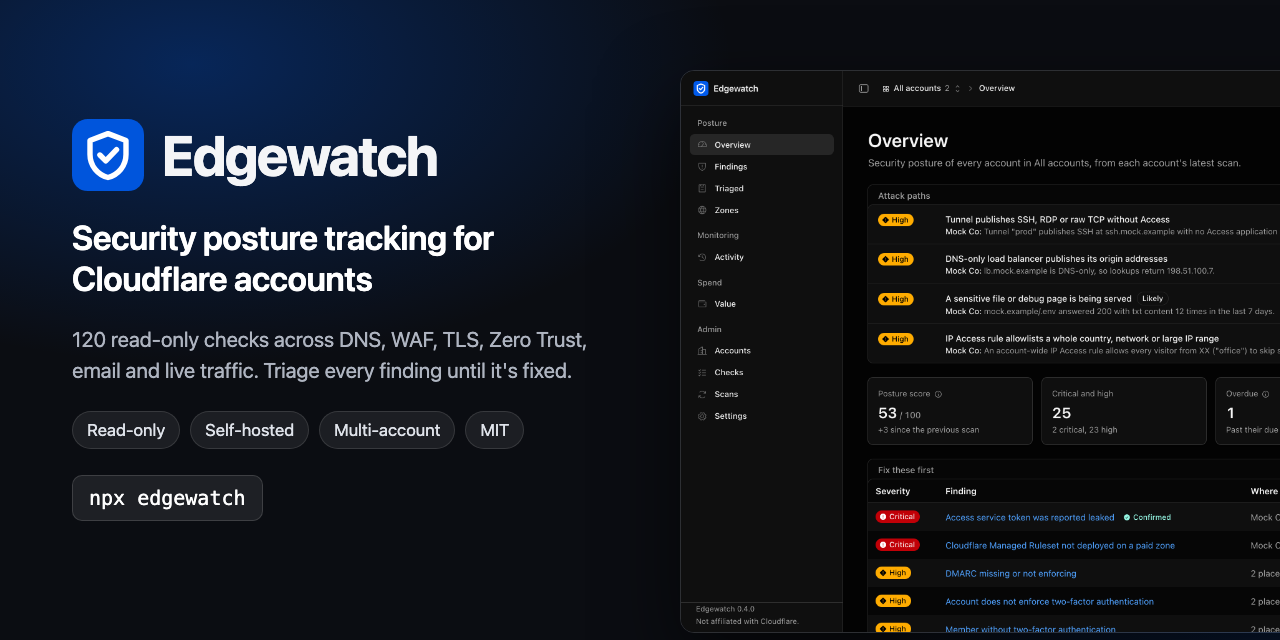
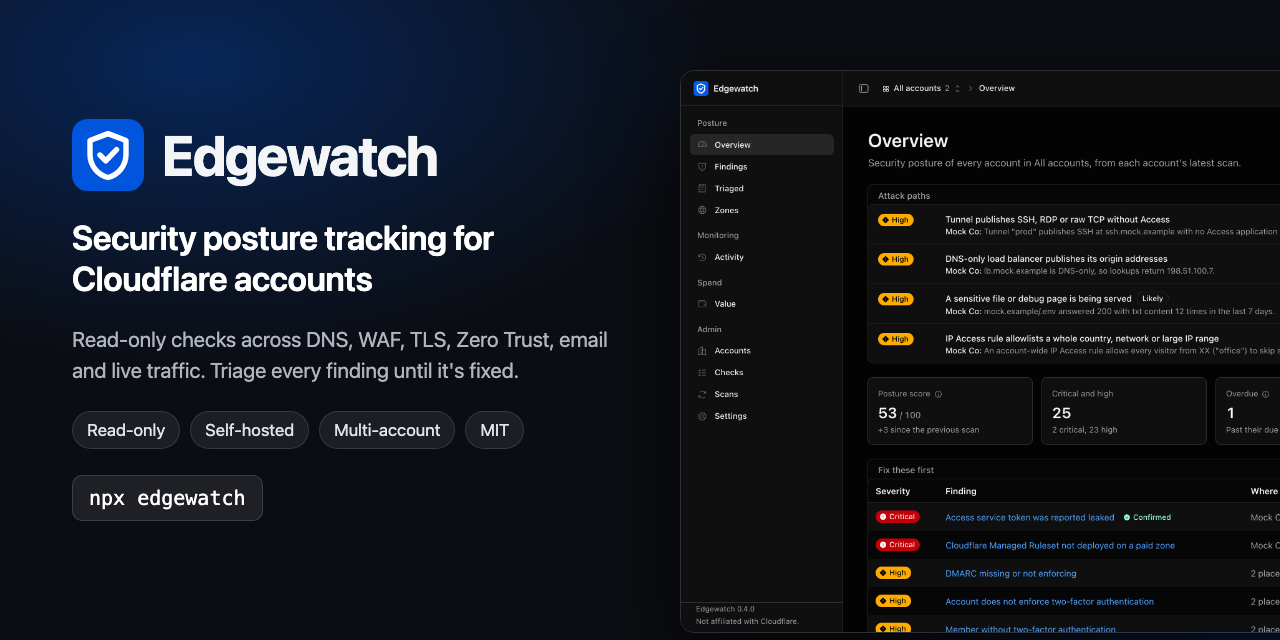
Stop quoting a total check count
The number goes stale with every new check. The README tagline and intro,
the check table, the 0.4.0 changelog entry, the generated reference's intro
and the social preview card no longer state it. The card's HTML source is
now in docs/images so it can be re-rendered.

Changed region(s): [[0.0625, 0.5, 0.4688, 0.5938]]

diff --git a/docs/images/social-preview.html b/docs/images/social-preview.html
@@ -1,0 +1,25 @@
+<!doctype html>
+<!-- Source of social-preview.png (GitHub's 1280x640 link card). To update it, open this file in a
+     browser with a 1280x640 viewport and capture the page; it uses overview-dark.png next to it. -->
+<html lang="en"><head><meta charset="utf-8"><title>Edgewatch social preview</title><style>
+*{box-sizing:border-box;margin:0}
+body{width:1280px;height:640px;overflow:hidden;background:#0b0d12;color:#f4f5f7;font-family:-apple-system,BlinkMacSystemFont,"Inter","Segoe UI",sans-serif;position:relative}
+.glow{position:absolute;inset:0;background:radial-gradient(900px 500px at 15% 10%,rgba(0,85,220,.35),transparent 60%),radial-gradient(700px 500px at 100% 100%,rgba(0,85,220,.18),transparent 60%)}
+.left{position:absolute;left:72px;top:0;bottom:0;width:560px;display:flex;flex-direction:column;justify-content:center;gap:26px}
+.brand{display:flex;align-items:center;gap:18px;font-size:56px;font-weight:700;letter-spacing:-1.5px}
+.brand svg{width:72px;height:72px}
+h2{font-size:34px;line-height:1.2;font-weight:600;letter-spacing:-.5px;color:#fff}
+p{font-size:21px;line-height:1.45;color:#aeb4c0}
+.pills{display:flex;flex-wrap:wrap;gap:10px}
+.pill{font-size:17px;padding:8px 14px;border-radius:999px;background:rgba(255,255,255,.07);border:1px solid rgba(255,255,255,.12);color:#dfe3ea}
+code{font-family:ui-monospace,Menlo,monospace;font-size:20px;background:rgba(255,255,255,.08);border:1px solid rgba(255,255,255,.14);padding:10px 16px;border-radius:10px;color:#fff;align-self:flex-start}
+.shot{position:absolute;left:680px;top:70px;width:900px;border-radius:14px;border:1px solid rgba(255,255,255,.14);box-shadow:0 30px 80px rgba(0,0,0,.6)}
+</style></head><body><div class="glow"></div>
+<img class="shot" src="overview-dark.png" alt="">
+<div class="left">
+ <div class="brand"><svg viewBox="0 0 32 32" aria-hidden="true"><rect width="32" height="32" rx="7" fill="#0055dc"/><path d="M16 6.5 8 9.6v6.2c0 5 3.4 9 8 10.2 4.6-1.2 8-5.2 8-10.2V9.6z" fill="none" stroke="#fff" stroke-width="2.4" stroke-linejoin="round"/><path d="m12.4 16 2.6 2.6 4.8-5" fill="none" stroke="#fff" stroke-width="2.4" stroke-linecap="round" stroke-linejoin="round"/></svg>Edgewatch</div>
+ <h2>Security posture tracking for Cloudflare accounts</h2>
+ <p>Read-only checks across DNS, WAF, TLS, Zero Trust, email and live traffic. Triage every finding until it's fixed.</p>
+ <div class="pills"><span class="pill">Read-only</span><span class="pill">Self-hosted</span><span class="pill">Multi-account</span><span class="pill">MIT</span></div>
+ <code>npx edgewatch</code>
+</div></body></html>

diff --git a/scripts/docs.ts b/scripts/docs.ts
@@ -44,7 +44,7 @@ export function checksDoc(): string {
     "",
     "# Checks",
     "",
-    `Edgewatch runs ${CHECKS.length} checks of its own, and imports Cloudflare Security Center insights alongside them.`,
+    "Edgewatch runs its own checks, and imports Cloudflare Security Center insights alongside them.",
     "A check evaluates every resource it applies to (an account, zone, hostname, rule, token, application…) as pass or fail;",
     "each failure is a finding. Severity is the check's default, and a finding can raise or lower it",
     "(for example, a public R2 bucket is critical when it holds backups). Checks marked **Attack path** describe a concrete way in",

diff --git a/README.md b/README.md
@@ -6,7 +6,7 @@
 
 <p align="center">
   <strong>Security posture tracking for Cloudflare accounts.</strong><br>
-  120 read-only checks across DNS, WAF, TLS, Zero Trust, email and live traffic, and a place to triage every finding until it's fixed.
+  Read-only checks across DNS, WAF, TLS, Zero Trust, email and live traffic, and a place to triage every finding until it's fixed.
 </p>
 
 <p align="center">
@@ -50,26 +50,26 @@ scan, and the first scans run. It needs Node.js 22.13 or newer. To run it for a 
 
 ## What it checks
 
-120 checks of its own, plus every insight from Cloudflare Security Center, imported and
+Its own checks, plus every insight from Cloudflare Security Center, imported and
 de-duplicated against those checks. Many of them correlate data that no single Cloudflare
 screen shows together, so they find problems a settings review or Security Center won't. Some go
 further and check configuration against the last week of traffic from Cloudflare's analytics:
 managed rules that log attacks without blocking them, `.env` files being served, plain-HTTP APIs.
 
-| Area | Checks | Examples |
-|---|---|---|
-| Attack surface | 9 | Proxied origins whose IP is published by another record, SPF or MX; origins reachable without Cloudflare; admin tools (Grafana, n8n, Jenkins…) with no Access in front; tunnels or Spectrum publishing SSH or RDP; subdomain takeovers confirmed with a live check; lame NS delegations |
-| Traffic | 9 | From the last 7 days of analytics: managed rules overridden to log while matching attacks, attack-scored requests answered, leaked-password logins not stopped, `.env` or `/.git/` served, plain HTTP, TLS 1.0 clients, rules that never match, bots on login pages |
-| Identity & access | 9 | Members without 2FA, too many Super Administrators, external members, 2FA not enforced; account API tokens with no IP restriction, no expiry, unused, or write access to every zone |
-| Zero Trust | 22 | Access groups or policies open to everyone or a webmail domain, leaked service tokens, CORS with credentials, one-time PIN beside SSO, Gateway without TLS inspection or logging, WARP that users can switch off, broad private routes, outdated cloudflared, idle seats |
-| TLS & HTTPS | 15 | SSL mode below Full (strict), TLS 1.0/1.1 (zone or per hostname), no HSTS, legacy ciphers, proxied hostnames no certificate covers, expiring edge, Origin CA, custom, client and mTLS certificates |
-| WAF & bots | 23 | Managed rules not deployed or switched to log-only, exceptions keyed on a header anyone can send, IP Access allowlists for whole countries or networks, weakened DDoS protection, mTLS that nothing enforces, URL normalization off, malicious scripts found by Page Shield, secrets hard-coded in transform rules |
-| DNS | 9 | Hostnames pointing at deleted tunnels, dangling CNAMEs to cloud resources (takeover risk), private IPs, stale records, DNS-only load balancers handing out origin IPs, DNSSEC off, no CAA |
-| Email | 11 | Missing or permissive SPF, DMARC not enforcing, SPF over 10 lookups, weak DKIM keys, DMARC reports silently dropped, no MTA-STS, catch-all forwarding, failing senders in DMARC reports |
-| Platform | 5 | Workers reachable on workers.dev, public R2 buckets, R2 CORS open to any site, credentials in plain-text Worker or Pages variables, public Pages previews |
-| Monitoring | 4 | Missing notifications, failing Logpush jobs, insecure or failing alert webhooks, Access apps rejecting thousands of logins |
-| Change risk | 3 | In the last 7 days: security rules turned off, Access policies widened, zone security settings lowered (who and when, from the audit log) |
-| Cost & usage | 1 | Paid plans on zones with almost no traffic |
+| Area | Examples |
+|---|---|
+| Attack surface | Proxied origins whose IP is published by another record, SPF or MX; origins reachable without Cloudflare; admin tools (Grafana, n8n, Jenkins…) with no Access in front; tunnels or Spectrum publishing SSH or RDP; subdomain takeovers confirmed with a live check; lame NS delegations |
+| Traffic | From the last 7 days of analytics: managed rules overridden to log while matching attacks, attack-scored requests answered, leaked-password logins not stopped, `.env` or `/.git/` served, plain HTTP, TLS 1.0 clients, rules that never match, bots on login pages |
+| Identity & access | Members without 2FA, too many Super Administrators, external members, 2FA not enforced; account API tokens with no IP restriction, no expiry, unused, or write access to every zone |
+| Zero Trust | Access groups or policies open to everyone or a webmail domain, leaked service tokens, CORS with credentials, one-time PIN beside SSO, Gateway without TLS inspection or logging, WARP that users can switch off, broad private routes, outdated cloudflared, idle seats |
+| TLS & HTTPS | SSL mode below Full (strict), TLS 1.0/1.1 (zone or per hostname), no HSTS, legacy ciphers, proxied hostnames no certificate covers, expiring edge, Origin CA, custom, client and mTLS certificates |
+| WAF & bots | Managed rules not deployed or switched to log-only, exceptions keyed on a header anyone can send, IP Access allowlists for whole countries or networks, weakened DDoS protection, mTLS that nothing enforces, URL normalization off, malicious scripts found by Page Shield, secrets hard-coded in transform rules |
+| DNS | Hostnames pointing at deleted tunnels, dangling CNAMEs to cloud resources (takeover risk), private IPs, stale records, DNS-only load balancers handing out origin IPs, DNSSEC off, no CAA |
+| Email | Missing or permissive SPF, DMARC not enforcing, SPF over 10 lookups, weak DKIM keys, DMARC reports silently dropped, no MTA-STS, catch-all forwarding, failing senders in DMARC reports |
+| Platform | Workers reachable on workers.dev, public R2 buckets, R2 CORS open to any site, credentials in plain-text Worker or Pages variables, public Pages previews |
+| Monitoring | Missing notifications, failing Logpush jobs, insecure or failing alert webhooks, Access apps rejecting thousands of logins |
+| Change risk | In the last 7 days: security rules turned off, Access policies widened, zone security settings lowered (who and when, from the audit log) |
+| Cost & usage | Paid plans on zones with almost no traffic |
 
 Every check, with why it matters and how to fix it, is listed in [docs/checks.md](docs/checks.md).
 

diff --git a/CHANGELOG.md b/CHANGELOG.md
@@ -4,7 +4,7 @@
 
 ## 0.4.0
 
-- **45 new checks** (120 in total), from about 60 more Cloudflare reads and GraphQL analytics:
+- **45 new checks**, from about 60 more Cloudflare reads and GraphQL analytics:
   - **Traffic**, a new category that checks configuration against the last 7 days of requests: managed rules overridden to log while matching attacks, attack-scored requests that got an answer, leaked-password logins nothing stops, `.env` or `/.git/` files being served, plain-HTTP responses, clients still on TLS 1.0/1.1, rules that never match, and bots succeeding on login pages. Analytics queries adapt to each zone's plan.
   - **Identity & access:** account API tokens without an IP restriction or expiry, unused for 90 days, or able to change every zone.
   - **Zero Trust:** Access groups and reusable policies open to everyone or a webmail domain (and groups are now resolved inside app policies), leaked service tokens, CORS with credentials, weak Access cookies, one-time PIN beside SSO, Gateway without TLS inspection or logging, WARP that users can turn off, broad private routes, missing posture checks, outdated cloudflared, idle seats.

diff --git a/docs/checks.md b/docs/checks.md
@@ -2,7 +2,7 @@
 
 # Checks
 
-Edgewatch runs 120 checks of its own, and imports Cloudflare Security Center insights alongside them.
+Edgewatch runs its own checks, and imports Cloudflare Security Center insights alongside them.
 A check evaluates every resource it applies to (an account, zone, hostname, rule, token, application…) as pass or fail;
 each failure is a finding. Severity is the check's default, and a finding can raise or lower it
 (for example, a public R2 bucket is critical when it holds backups). Checks marked **Attack path** describe a concrete way in
